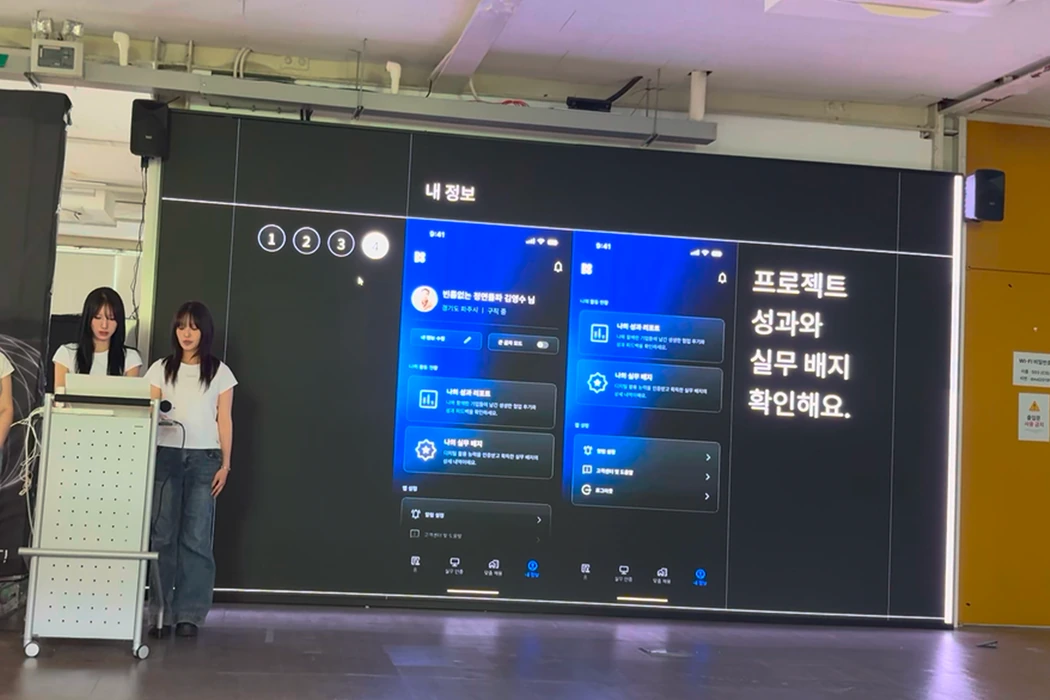
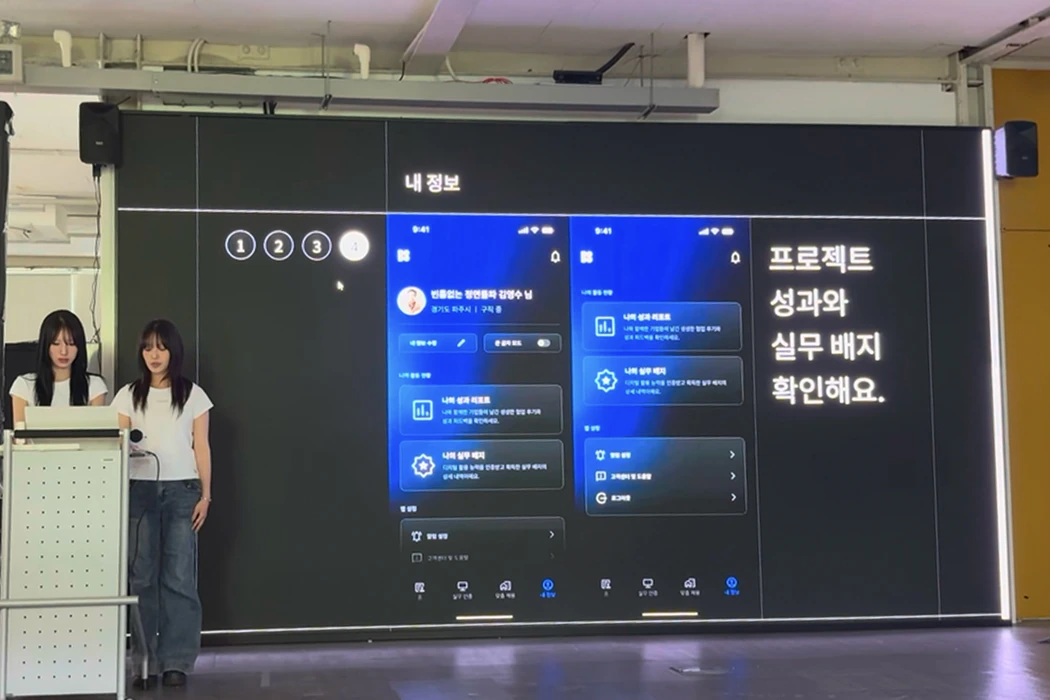
Replace Bridge's first team activity photo

diff --git a/script.js b/script.js
@@ -1,6 +1,6 @@
 import { projects as sourceProjects, featuredIds } from './data.js?v=project-awards';
 import { bridgeMarkup, steps as bridgeSteps } from './bridge.js?v=team-activity-photos';
-import { caseStudies } from './case-studies.js?v=team-activity-photos';
+import { caseStudies } from './case-studies.js?v=bridge-team-photo';
 import { caseStudyMarkup, caseProcessMarkup } from './case-study.js?v=sharp-process-images';
 
 const pdfProjectNames = {

diff --git a/index.html b/index.html
@@ -14,7 +14,7 @@
   <link rel="stylesheet" href="./projects.css?v=compact-footer">
   <link rel="stylesheet" href="./about.css?v=compact-footer">
   <link rel="stylesheet" href="./typography.css?v=compact-footer">
-  <script type="module" src="./script.js?v=team-activity-photos"></script>
+  <script type="module" src="./script.js?v=bridge-team-photo"></script>
 </head>
 <body>
   <a class="skip-link" href="#content">본문으로 건너뛰기</a>

diff --git a/case-studies.js b/case-studies.js
@@ -3,7 +3,7 @@ export const caseStudies = {
   "bridge": {
     "teamPhotos": [
       {
-        "src": "./assets/optimized/bridge-team-1.webp",
+        "src": "./assets/optimized/bridge-team-1.webp?v=img-0973",
         "alt": "브릿지의 내 정보 화면을 소개하는 발표 현장"
       },
       {
